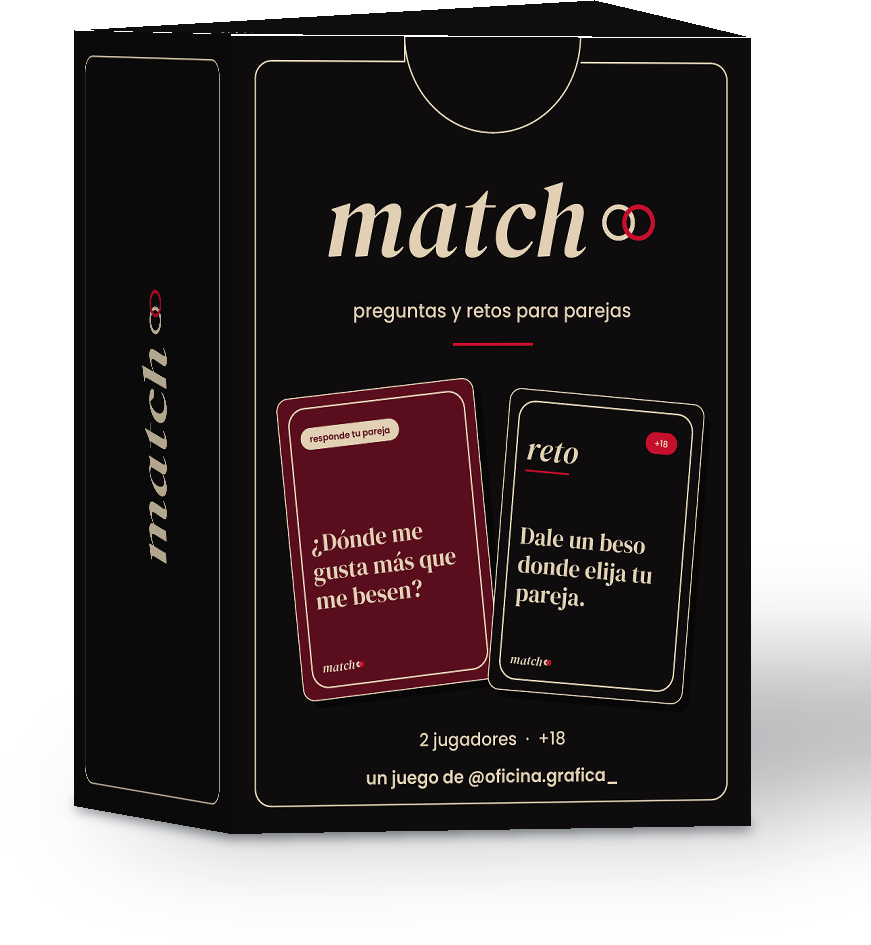
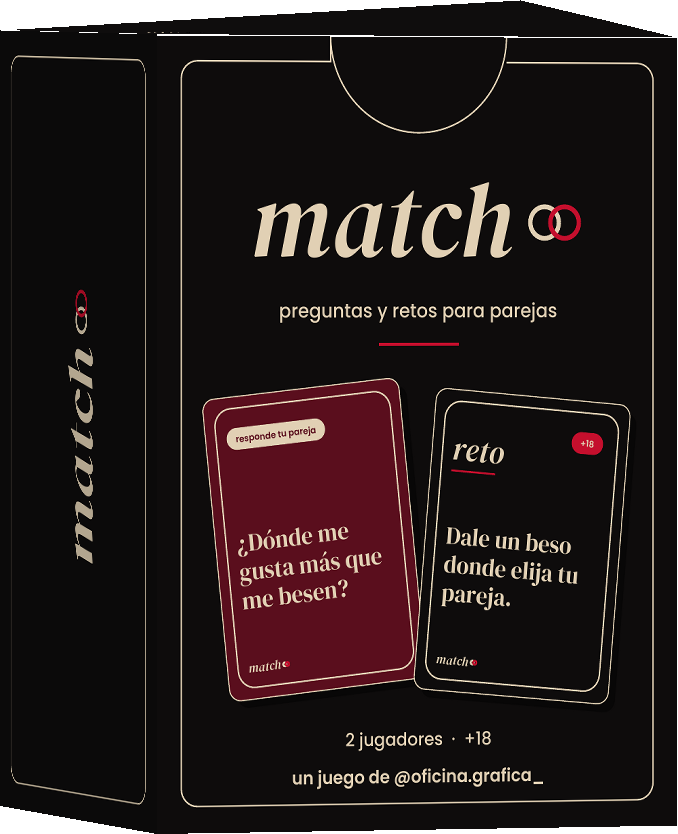
Redes: regalito con los productos más juntos y sin sombras cortadas
Claude-Session: https://claude.ai/code/session_01FGxw9aPArw9pn3yxwBbtRR

diff --git a/redes/regalito/posteo.html b/redes/regalito/posteo.html
@@ -37,21 +37,22 @@
     <text x="1470" y="190">PEDIR UN</text>
     <text x="1470" y="306">REGALITO</text>
   </g>
+  <!-- productos en racimo, apenas encimados -->
   <g filter="url(#sombra)">
-    <g transform="translate(1610 590) rotate(-6)"><image href="caja-match.png" x="-138" y="-150" width="277" height="300"/></g>
-    <g transform="translate(1950 580) rotate(5)"><image href="caja-opinologos.png" x="-138" y="-150" width="277" height="300"/></g>
-    <g transform="translate(1985 905) rotate(7)"><image href="album-alfajores.png" x="-167" y="-160" width="334" height="320"/></g>
-    <g transform="translate(1585 1105) rotate(6)"><image href="libro-dating-list.png" x="-113" y="-165" width="226" height="330"/></g>
-    <g transform="translate(1835 1140) rotate(-4)"><image href="libro-vinos.png" x="-121" y="-165" width="241" height="330"/></g>
-    <g transform="translate(1440 1250) rotate(-14)"><image href="carta-match-reto.png" x="-66" y="-89" width="132" height="178"/></g>
+    <g transform="translate(1655 610) rotate(-6)"><image href="caja-match.png" x="-142" y="-175" width="285" height="350"/></g>
+    <g transform="translate(1945 600) rotate(5)"><image href="caja-opinologos.png" x="-142" y="-175" width="285" height="350"/></g>
+    <g transform="translate(1975 930) rotate(7)"><image href="album-alfajores.png" x="-172" y="-165" width="344" height="330"/></g>
+    <g transform="translate(1610 975) rotate(5)"><image href="libro-dating-list.png" x="-123" y="-180" width="246" height="360"/></g>
+    <g transform="translate(1825 1105) rotate(-4)"><image href="libro-vinos.png" x="-128" y="-175" width="256" height="350"/></g>
+    <g transform="translate(1475 1200) rotate(-14)"><image href="carta-match-reto.png" x="-66" y="-89" width="132" height="178"/></g>
   </g>
-  <g fill="#FBF8F1"><use href="#corazon" transform="translate(1785 445) rotate(-10) scale(.8)"/>
-    <use href="#corazon" transform="translate(1720 860) rotate(16) scale(.7)"/>
-    <use href="#corazon" transform="translate(2100 1250) rotate(-12) scale(.8)"/>
-    <use href="#corazon" transform="translate(1990 1310) rotate(8) scale(.6)"/></g>
+  <g fill="#FBF8F1"><use href="#corazon" transform="translate(1800 420) rotate(-10) scale(.75)"/>
+    <use href="#corazon" transform="translate(2110 820) rotate(16) scale(.7)"/>
+    <use href="#corazon" transform="translate(2080 1230) rotate(-12) scale(.8)"/>
+    <use href="#corazon" transform="translate(1455 735) rotate(8) scale(.6)"/></g>
   <g fill="#1C82D9"><use href="#destello" transform="translate(2100 120) scale(.8)"/>
-    <use href="#destello" transform="translate(1500 800) scale(.8)"/><use href="#destello" transform="translate(1540 840) scale(.45)"/>
-    <use href="#destello" transform="translate(2120 700) scale(.6)"/></g>
+    <use href="#destello" transform="translate(2120 420) scale(.6)"/><use href="#destello" transform="translate(1990 1290) scale(.55)"/>
+    <use href="#destello" transform="translate(1495 420) scale(.7)"/></g>
 
   <rect width="2160" height="1350" filter="url(#grano)" opacity=".22" style="mix-blend-mode:multiply"/>
 </svg>

diff --git a/redes/regalito/productos.py b/redes/regalito/productos.py
@@ -31,8 +31,14 @@ def recortar(img):
 
 
 def caja(pdf, nombre, tmp):
+    """Caja en 3D sin sombras proyectadas (la sombra la pone el posteo, pareja para todos los productos)."""
     lienzo = Image.new("RGBA", (900, 1100), (0, 0, 0, 0))
-    fp.caja_3d(lienzo, fp.caras_de_caja(pdf, tmp), 260, 980, 800)
+    sombra_original = fp.sombra
+    fp.sombra = lambda *a, **k: None
+    try:
+        fp.caja_3d(lienzo, fp.caras_de_caja(pdf, tmp), 260, 980, 800)
+    finally:
+        fp.sombra = sombra_original
     recortar(lienzo).save(os.path.join(AQUI, nombre))
 
 
